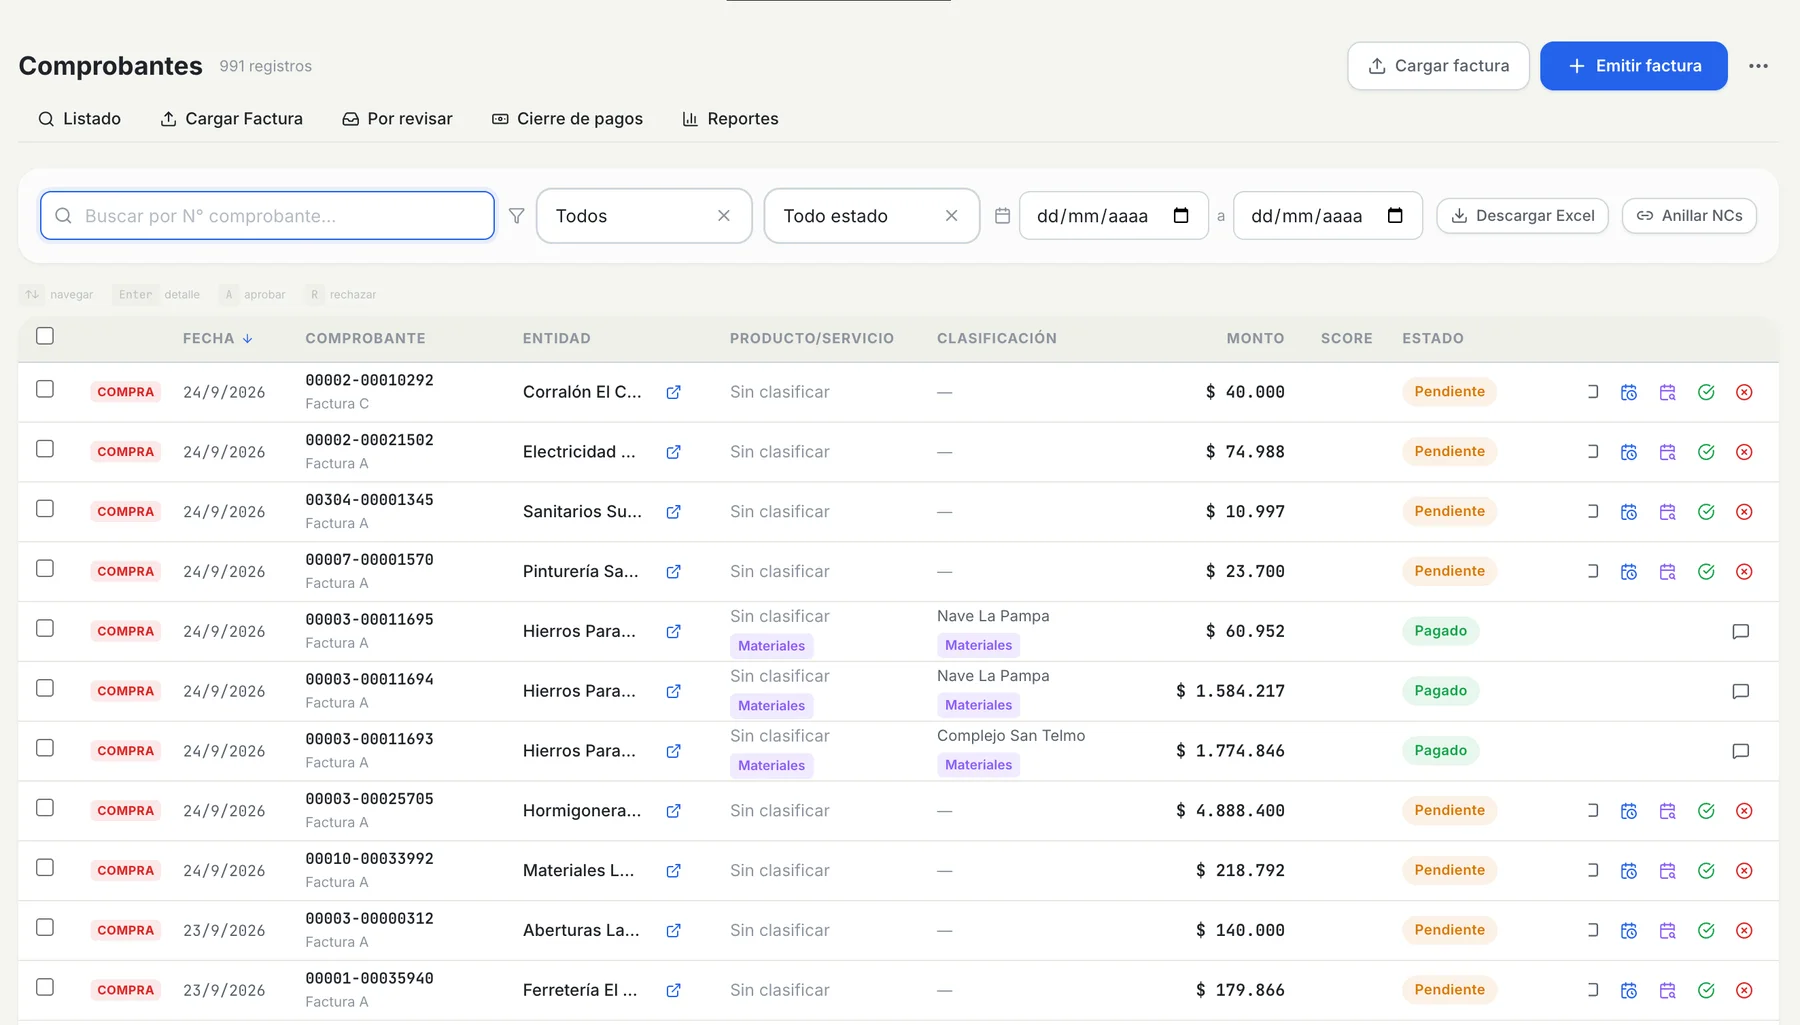
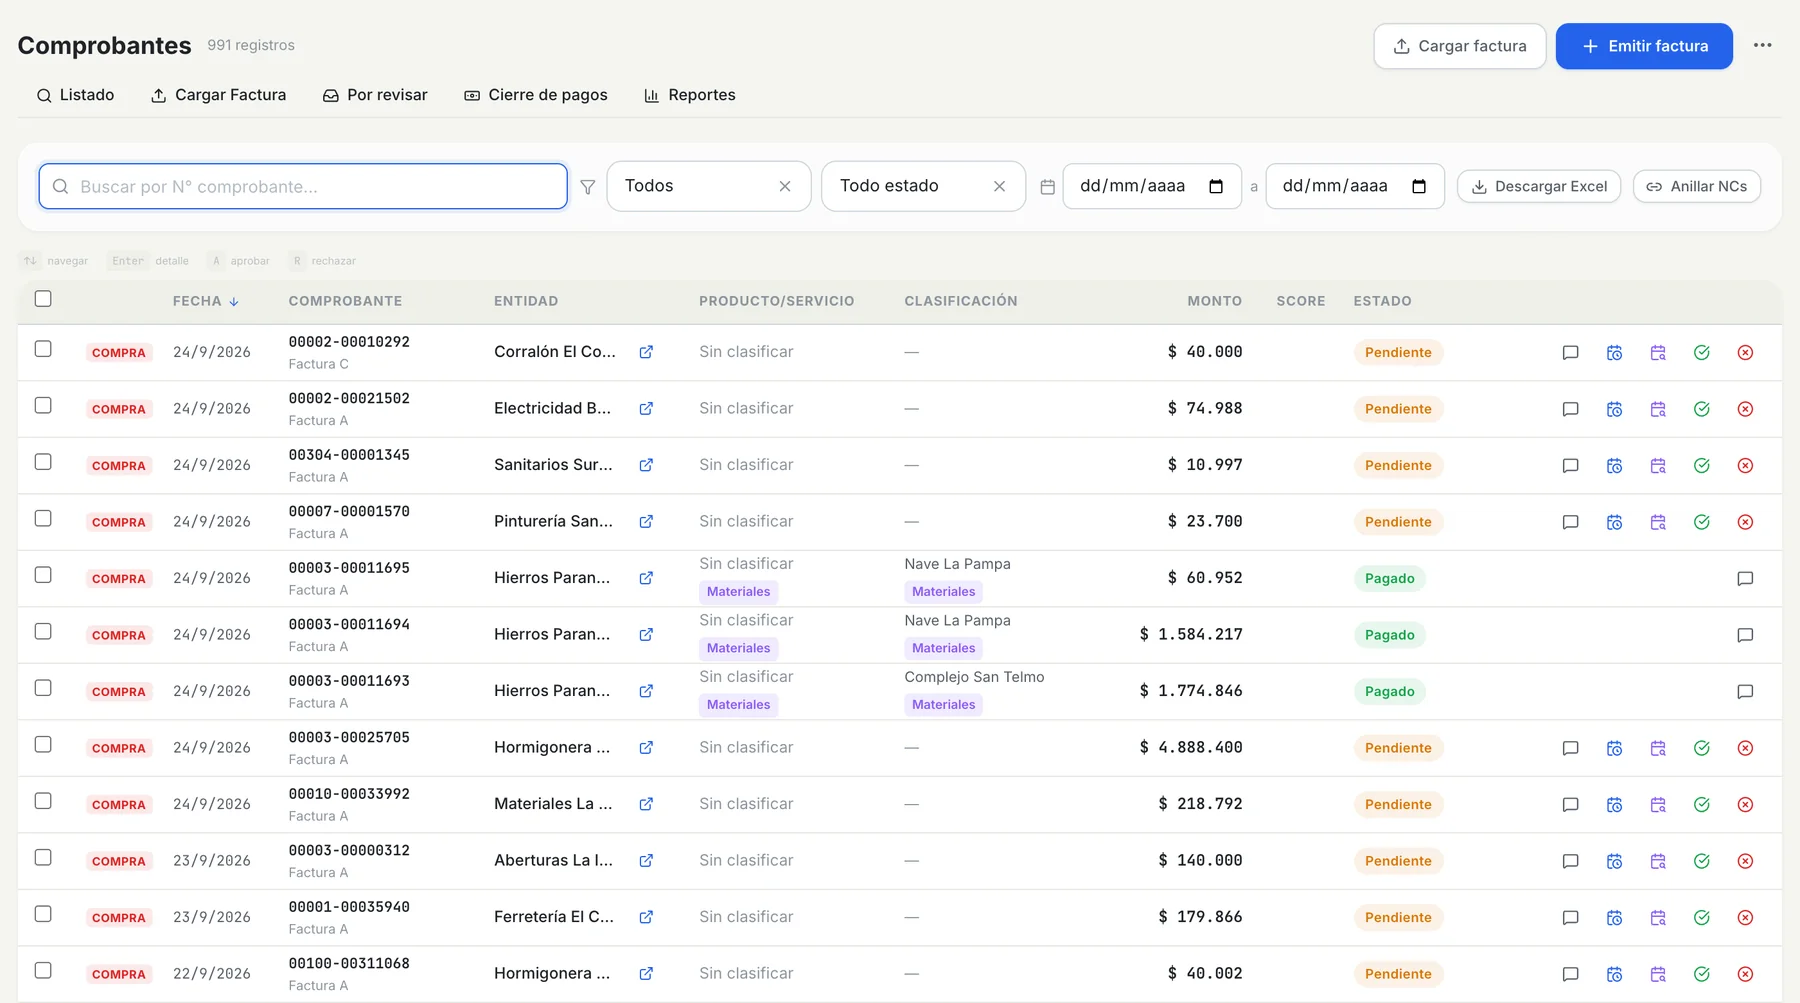
fix: lo que salió de revisar la página en nueve tamaños de ventana
Pantallas reales
- Comprobantes: captura nueva, con los íconos de acciones enteros (el sistema
  los cortaba; arreglado en el core) y sin la raya suelta de arriba. A Obras se
  le sacó la misma raya. Se van dos capturas que no se usaban.
- Pantalla ampliada: la X de cerrar va sobre fondo oscuro y fuera de la imagen
  (era blanca sobre blanco), tocar el margen cierra, y en el celular el carril
  llega al borde y avisa que se desliza.

Escena de las tres piezas
- Al llegar por el menú la escena queda arriba de todo: «section[id]» le ganaba
  a la clase que pedía margen 0.
- El título se va antes de que la cabeza suba (se pisaban en ventanas bajas).
- El bloque de texto ya no queda pegado a la pieza 3D en 1024 de ancho ni al
  header en 650 de alto; los párrafos reparten los renglones.
- Maqueta de NeuraInsight: «La oficina» no se muestra donde la tapa la pantalla
  real, «El viaje» entra entero y en el celular la maqueta va centrada.

Resto de la página
- Header y hero alineados con las secciones (arrancaban 48 px más adentro).
- Hero: las tres pastillas entran en un renglón a 360 px y el remate no queda
  al ras del borde en ventanas bajas.
- Formulario: el campo con error queda a la vista, no debajo del header.
- Siete pasos: el remate no termina debajo de la burbuja del video.
- Neuralite: el texto arranca a la altura del formulario.
- Saltos del menú en el celular sin la raya de la sección anterior; el menú se
  cierra si se sigue bajando.
[…]

diff --git a/src/components/solucion/PantallaAmpliada.tsx b/src/components/solucion/PantallaAmpliada.tsx
@@ -36,10 +36,13 @@ export default function PantallaAmpliada({ pantalla, onCerrar }: PantallaAmpliad
             ref={dialogoRef}
             aria-label="Pantalla real · empresa de demostración"
             onCancel={(e) => { e.preventDefault(); onCerrar(); }}
-            className="m-0 h-dvh max-h-none w-screen max-w-none bg-transparent p-4 backdrop:bg-night/90 backdrop:backdrop-blur-md md:p-10"
+            // Tocar el margen oscuro cierra: el margen es del <dialog>, no del contenedor de adentro.
+            onClick={(e) => { if (e.target === e.currentTarget) onCerrar(); }}
+            className="m-0 h-dvh max-h-none w-screen max-w-none bg-transparent p-4 backdrop:bg-night/90 backdrop:backdrop-blur-md md:p-14"
         >
             <div
-                className="flex h-full items-center justify-start overflow-auto md:justify-center"
+                // En el celular el carril llega hasta los bordes del teléfono: así se nota que la pantalla sigue de costado.
+                className="-mx-4 flex h-full items-center justify-start overflow-auto px-4 md:mx-0 md:justify-center md:px-0"
                 onClick={(e) => { if (e.target === e.currentTarget) onCerrar(); }}
             >
                 <img
@@ -50,15 +53,19 @@ export default function PantallaAmpliada({ pantalla, onCerrar }: PantallaAmpliad
                     // En el celular la pantalla no se achica al ancho del teléfono: queda legible y se recorre de costado.
                     className="h-auto max-h-none w-[900px] max-w-none shrink-0 rounded-[14px] md:max-h-full md:w-auto md:max-w-full md:shrink bg-white shadow-[0_30px_120px_rgba(59,123,255,0.25)] ring-1 ring-white/15"
                 />
-                <button
-                    type="button"
-                    onClick={onCerrar}
-                    aria-label="Cerrar la pantalla"
-                    className="absolute right-4 top-4 flex h-11 w-11 items-center justify-center rounded-full border border-white/20 bg-white/10 text-white transition-colors hover:bg-white/20 focus-visible:outline focus-visible:outline-2 focus-visible:outline-offset-2 focus-visible:outline-brand-blue-light md:right-8 md:top-8"
-                >
-                    <X className="h-5 w-5" aria-hidden="true" />
-                </button>
             </div>
+            <p className="pointer-events-none absolute inset-x-0 bottom-5 text-center text-sm text-white/75 md:hidden" aria-hidden="true">
+                Deslizá hacia los costados para verla entera
+            </p>
+            {/* Fondo oscuro propio y fuera del área de la imagen: la pantalla es casi blanca y una X translúcida no se veía. */}
+            <button
+                type="button"
+                onClick={onCerrar}
+                aria-label="Cerrar la pantalla"
+                className="absolute right-3 top-3 flex h-11 w-11 items-center justify-center rounded-full border border-white/25 bg-night/85 text-white transition-colors hover:bg-night focus-visible:outline focus-visible:outline-2 focus-visible:outline-offset-2 focus-visible:outline-brand-blue-light md:right-1.5 md:top-1.5"
+            >
+                <X className="h-5 w-5" aria-hidden="true" />
+            </button>
         </dialog>
     );
 }

diff --git a/src/components/secciones/Solucion.tsx b/src/components/secciones/Solucion.tsx
@@ -59,6 +59,7 @@ const ESTILOS = `
   --zz:calc(var(--z0)*(1 + 0.08*var(--e,0.5)));
   transform:translate(calc((var(--ax) - var(--cx)*var(--zz))*100%),calc((var(--ay) - var(--cy)*var(--zz))*100%)) scale(var(--zz))}
 .sol-rotulo{position:absolute;transform:translate(-50%,-50%) scale(calc(1/var(--zz)))}
+@media (max-width:1023px){[data-bloque="insight"] .sol-capa{--ax:.5}}
 `;
 
 interface PiezasSvgProps {
@@ -89,9 +90,10 @@ interface BloqueProps {
 }
 
 function Bloque({ pieza, escena, onAmpliar }: BloqueProps) {
-    // En la escena el texto de la derecha deja libre la franja de la tarjeta del video (140 px + márgenes).
+    // En la escena el texto de la derecha deja libre la franja de la burbuja del video (72 px + márgenes).
+    // Más que eso arrima el bloque a la pieza 3D en ventanas de 1024 de ancho.
     const lugar: CSSProperties = pieza.lado === 'der'
-        ? { right: 'max(196px, calc((100vw - 1280px) / 2))' }
+        ? { right: 'max(120px, calc((100vw - 1280px) / 2))' }
         : { left: 'max(6vw, calc((100vw - 1280px) / 2))' };
 
     return (
@@ -118,7 +120,7 @@ function Bloque({ pieza, escena, onAmpliar }: BloqueProps) {
                     {pieza.titulo}
                 </h3>
                 <p
-                    className="mt-4 max-w-[32em] text-lg leading-normal text-ink-soft sm:text-xl sm:leading-normal"
+                    className="mt-4 max-w-[32em] text-balance text-lg leading-normal text-ink-soft sm:text-xl sm:leading-normal"
                     style={escena ? { fontSize: 'clamp(1.0625rem, 1.35vw, 1.25rem)' } : undefined}
                 >
                     {pieza.texto}
@@ -129,7 +131,7 @@ function Bloque({ pieza, escena, onAmpliar }: BloqueProps) {
                 onAmpliar={onAmpliar}
                 className={escena ? 'mt-5' : ''}
                 // El tercer tope ata el ancho al alto que queda en ventanas bajas (notebooks de 768).
-                style={escena ? { width: 'min(100%, 68vh, calc((100vh - 390px) * 1.6))' } : undefined}
+                style={escena ? { width: 'min(100%, 68vh, calc((100vh - 420px) * 1.6))' } : undefined}
             />
         </article>
     );
@@ -360,7 +362,7 @@ export default function Solucion() {
             aria-labelledby="solucion-titulo"
             className={
                 escena
-                    ? `relative bg-white text-ink [scroll-margin-top:0px] ${P_FORZADO !== null ? 'sol-pista-forzada' : 'sol-pista'}`
+                    ? `relative bg-white text-ink ![scroll-margin-top:0px] ${P_FORZADO !== null ? 'sol-pista-forzada' : 'sol-pista'}`
                     : 'seccion seccion-blanca overflow-hidden'
             }
         >

diff --git a/src/components/Hero.tsx b/src/components/Hero.tsx
@@ -61,7 +61,9 @@ export default function Hero({ onVerVideo }: HeroProps) {
         <section className="hero-alto relative isolate flex flex-col overflow-hidden bg-white text-ink lg:flex-row lg:items-center">
             <LogoAnimado />
 
-            <div className="relative z-10 mx-auto w-full max-w-7xl px-6 pb-14 pt-2 md:px-12 lg:pb-16 lg:pt-24">
+            {/* El relleno va afuera del tope de ancho, igual que en las secciones: si no, el hero arranca 48 px más adentro. */}
+            <div className="relative z-10 w-full px-6 pb-14 pt-2 md:px-12 lg:pb-16 lg:pt-24">
+                <div className="mx-auto max-w-7xl">
                 <div className="max-w-[38rem]">
                     <p className="hero-entra mb-5 text-[0.7rem] font-semibold uppercase tracking-[0.34em] text-brand-blue-dark sm:text-xs">
                         Conectá. Automatizá. Decidí.
@@ -115,7 +117,7 @@ export default function Hero({ onVerVideo }: HeroProps) {
                                 <a
                                     href="#solucion"
                                     onClick={(e) => { e.preventDefault(); irA('#solucion'); }}
-                                    className="inline-flex items-center gap-2 rounded-full border border-gray-200 bg-white px-2.5 py-1.5 text-[0.8rem] font-medium text-text-secondary transition-colors duration-200 hover:border-brand-blue/50 hover:text-text-primary sm:px-4 sm:text-sm"
+                                    className="inline-flex items-center gap-1.5 rounded-full border border-gray-200 bg-white px-2 py-1.5 text-[0.8rem] sm:gap-2 font-medium text-text-secondary transition-colors duration-200 hover:border-brand-blue/50 hover:text-text-primary sm:px-4 sm:text-sm"
                                 >
                                     <span className={`h-1.5 w-1.5 rounded-full ${pieza.punto}`} aria-hidden="true" />
                                     {pieza.nombre}
@@ -125,12 +127,13 @@ export default function Hero({ onVerVideo }: HeroProps) {
                     </ul>
 
                     <p
-                        className="hero-entra mt-6 hidden text-base text-ink-soft sm:block"
+                        className="hero-entra mt-6 hidden text-base text-ink-soft sm:block [@media(max-height:720px)]:!hidden"
                         style={{ animationDelay: '320ms' }}
                     >
                         Entendé lo que pasa.{' '}
                         <strong className="font-semibold text-ink">Mirá para adelante.</strong>
                     </p>
+                </div>
                 </div>
             </div>
         </section>

diff --git a/src/components/ScrollHeader.tsx b/src/components/ScrollHeader.tsx
@@ -1,4 +1,4 @@
-import { useEffect, useState } from 'react';
+import { useEffect, useRef, useState } from 'react';
 import { Menu, MessageCircle, X } from 'lucide-react';
 import logo from '../assets/logo-header.png';
 import { URL_INGRESAR, WHATSAPP_REUNION } from './contacto';
@@ -16,9 +16,14 @@ const navLinks = [
 export default function ScrollHeader() {
     const [sobreHero, setSobreHero] = useState(true);
     const [mobileOpen, setMobileOpen] = useState(false);
+    const abiertoEn = useRef(0);
 
     useEffect(() => {
-        const medir = () => setSobreHero(window.scrollY < 24);
+        const medir = () => {
+            setSobreHero(window.scrollY < 24);
+            // Si con el menú abierto se sigue bajando, se cierra solo: quedaba tapando media pantalla.
+            if (Math.abs(window.scrollY - abiertoEn.current) > 48) setMobileOpen(false);
+        };
         medir();
         window.addEventListener('scroll', medir, { passive: true });
         return () => window.removeEventListener('scroll', medir);
@@ -28,11 +33,11 @@ export default function ScrollHeader() {
 
     return (
         <nav
-            className={`fixed inset-x-0 top-0 z-50 border-b text-ink transition-colors duration-300 ${
+            className={`fixed inset-x-0 top-0 z-50 border-b px-6 text-ink transition-colors duration-300 md:px-12 ${
                 solido ? 'border-gray-100 bg-white/95 shadow-sm backdrop-blur-md' : 'border-transparent'
             }`}
         >
-            <div className="mx-auto max-w-7xl px-6 py-4 md:px-12">
+            <div className="mx-auto max-w-7xl py-4">
                 <div className="flex items-center justify-between gap-4">
                     <button
                         onClick={() => irA('#inicio')}
@@ -75,7 +80,7 @@ export default function ScrollHeader() {
                         </a>
                         <button
                             className="rounded-lg p-2 transition-colors hover:bg-gray-100 xl:hidden"
-                            onClick={() => setMobileOpen(!mobileOpen)}
+                            onClick={() => { abiertoEn.current = window.scrollY; setMobileOpen(!mobileOpen); }}
                             aria-label={mobileOpen ? 'Cerrar el menú' : 'Abrir el menú'}
                             aria-expanded={mobileOpen}
                         >

diff --git a/src/components/secciones/Neuralite.tsx b/src/components/secciones/Neuralite.tsx
@@ -154,7 +154,14 @@ export default function Neuralite() {
         const encontrados = validar(limpios);
         setErrores(encontrados);
         if (encontrados.nombre || encontrados.mail) {
-            (encontrados.nombre ? nombreRef : mailRef).current?.focus();
+            // focus() a secas deja el campo debajo de la barra fija: se ve el aviso y no dónde escribir.
+            // Sólo se mueve la página si el campo, su etiqueta o su aviso no se ven.
+            const campo = (encontrados.nombre ? nombreRef : mailRef).current;
+            if (campo) {
+                campo.focus({ preventScroll: true });
+                const caja = campo.getBoundingClientRect();
+                if (caja.top < FRANJA_DE_LA_BARRA + 32 || caja.bottom + 32 > window.innerHeight) campo.scrollIntoView({ block: 'center' });
+            }
             return;
         }
 
@@ -197,7 +204,7 @@ export default function Neuralite() {
 
     return (
         <section id="neuralite" aria-labelledby="neuralite-titulo" className="seccion seccion-clara">
-            <div className="contenedor grid gap-10 lg:grid-cols-[minmax(0,1.15fr)_minmax(0,1fr)] lg:items-center lg:gap-12 xl:gap-16">
+            <div className="contenedor grid gap-10 lg:grid-cols-[minmax(0,1.15fr)_minmax(0,1fr)] lg:items-start lg:gap-12 xl:gap-16">
                 <Aparece>
                     <p className="sobretitulo">Neuralite</p>
                     {/* En dos columnas el cuerpo acompaña al ancho para que cada renglón entre entero en la suya. */}

diff --git a/src/components/solucion/piezas.ts b/src/components/solucion/piezas.ts
@@ -21,6 +21,7 @@ export interface RotuloMaqueta {
     texto: string;
     x: number;
     y: number;
+    soloCelular?: boolean;
 }
 
 export interface ContenidoPieza {
@@ -60,7 +61,7 @@ export const PIEZAS_CONTENIDO: readonly ContenidoPieza[] = [
         pantalla: {
             src: '/pantallas/comprobantes.webp',
             ancho: 1800,
-            alto: 1025,
+            alto: 1003,
             alt: 'Pantalla de Neura: la bandeja de comprobantes, con fecha, proveedor, monto y estado de cada uno.',
         },
     },
@@ -95,14 +96,15 @@ export const PIEZAS_CONTENIDO: readonly ContenidoPieza[] = [
         rotulos: [
             { texto: 'El depósito', x: 660, y: 520 },
             { texto: 'La obra', x: 1575, y: 450 },
-            { texto: 'El viaje', x: 520, y: 1160 },
-            { texto: 'La oficina', x: 1150, y: 880 },
+            { texto: 'El viaje', x: 600, y: 1160 },
+            // En pantalla grande cae justo debajo de la pantalla real: ahí no se muestra.
+            { texto: 'La oficina', x: 1150, y: 880, soloCelular: true },
             { texto: 'El local', x: 1900, y: 760 },
         ],
         pantalla: {
             src: '/pantallas/obras.webp',
             ancho: 1800,
-            alto: 1028,
+            alto: 1021,
             alt: 'Pantalla de Neura: las obras de la empresa, con la caja de cada una.',
         },
     },

diff --git a/src/components/solucion/Vitrina.tsx b/src/components/solucion/Vitrina.tsx
@@ -45,7 +45,7 @@ export default function Vitrina({ pieza, onAmpliar, className = '', style }: Vit
                         <span
                             key={rotulo.texto}
                             aria-hidden="true"
-                            className="sol-rotulo flex items-center gap-1.5 whitespace-nowrap rounded-full border border-line bg-white/95 px-2 py-1 text-[0.6875rem] font-medium leading-none text-ink shadow-[0_2px_6px_rgba(8,15,32,0.08)]"
+                            className={`sol-rotulo flex items-center gap-1.5 whitespace-nowrap rounded-full border border-line bg-white/95 px-2 py-1 text-[0.6875rem] font-medium leading-none text-ink shadow-[0_2px_6px_rgba(8,15,32,0.08)] ${rotulo.soloCelular ? 'lg:hidden' : ''}`}
                             style={{
                                 left: `${(rotulo.x / ANCHO_MAQUETA) * 100}%`,
                                 top: `${(rotulo.y / ALTO_MAQUETA) * 100}%`,

diff --git a/src/components/secciones/Clientes.tsx b/src/components/secciones/Clientes.tsx
@@ -96,7 +96,7 @@ export default function Clientes() {
                     height="752"
                     loading="lazy"
                     decoding="async"
-                    className="pointer-events-none absolute -right-44 -top-36 -z-10 w-[30rem] max-w-none select-none opacity-40 mix-blend-lighten lg:-right-[2vw] lg:-top-10 lg:w-[min(62vw,56rem)] lg:opacity-50"
+                    className="pointer-events-none absolute -right-44 -top-36 -z-10 w-[30rem] max-w-none select-none opacity-40 mix-blend-lighten lg:-right-[2vw] lg:-top-20 lg:w-[min(62vw,56rem)] lg:opacity-50"
                     style={{ maskImage: MASCARA_ANILLOS, WebkitMaskImage: MASCARA_ANILLOS }}
                 />
 

diff --git a/src/components/secciones/SietePasos.tsx b/src/components/secciones/SietePasos.tsx
@@ -160,7 +160,7 @@ export default function SietePasos() {
                         <br />
                         los 7 procesos en conjunto.
                     </p>
-                    <p className="mt-6 text-lg leading-snug text-ink-soft lg:mt-0 lg:text-right lg:text-xl lg:leading-snug">
+                    <p className="mt-6 text-lg leading-snug text-ink-soft lg:mt-0 lg:pr-20 lg:text-right lg:text-xl lg:leading-snug">
                         No queda solo ejecutado.{' '}
                         <strong className="block font-semibold text-ink">Queda cerrado.</strong>
                     </p>

diff --git a/src/components/solucion/guion.ts b/src/components/solucion/guion.ts
@@ -143,7 +143,8 @@ export type IdBloque = 'intro' | 'rotulos' | 'sync' | 'core' | 'insight' | 'rema
 
 /** Cada bloque de texto: [entra desde, entra hasta, sale desde, sale hasta]. −1 = ya está; 2 = no sale. */
 export const BLOQUES: Record<IdBloque, readonly [number, number, number, number]> = {
-    intro: [-1, -1, 0.09, 0.14],
+    // El título se va antes de que la cabeza suba: en ventanas bajas (650 de alto) lo alcanza en 0.06.
+    intro: [-1, -1, 0.02, 0.06],
     rotulos: [0.17, 0.21, 0.25, 0.285],
     sync: [0.3, 0.35, 0.41, 0.45],
     core: [0.5, 0.55, 0.61, 0.65],

diff --git a/src/index.css b/src/index.css
@@ -14,9 +14,16 @@
   box-sizing: border-box;
 }
 
-/* El header fijo mide 73 px: sin este margen tapa el comienzo de la sección a la que se salta. */
+/* El header fijo mide 69 px en el celular y 73 desde sm: sin este margen tapa el comienzo de la
+   sección a la que se salta, y con uno de más asoma una raya de la sección anterior. */
 section[id] {
-  scroll-margin-top: 72px;
+  scroll-margin-top: 68px;
+}
+
+@media (min-width: 640px) {
+  section[id] {
+    scroll-margin-top: 72px;
+  }
 }
 
 html {

diff --git a/src/components/VideoWidget.tsx b/src/components/VideoWidget.tsx
@@ -42,6 +42,7 @@ function Reproductor({ onCerrar }: { onCerrar: () => void }) {
             ref={dialogoRef}
             aria-label="Video: Neura Orkesta en un minuto"
             onCancel={(e) => { e.preventDefault(); onCerrar(); }}
+            onClick={(e) => { if (e.target === e.currentTarget) onCerrar(); }}
             className="m-0 h-dvh max-h-none w-screen max-w-none bg-transparent p-4 backdrop:bg-night/90 backdrop:backdrop-blur-md"
         >
             <div
